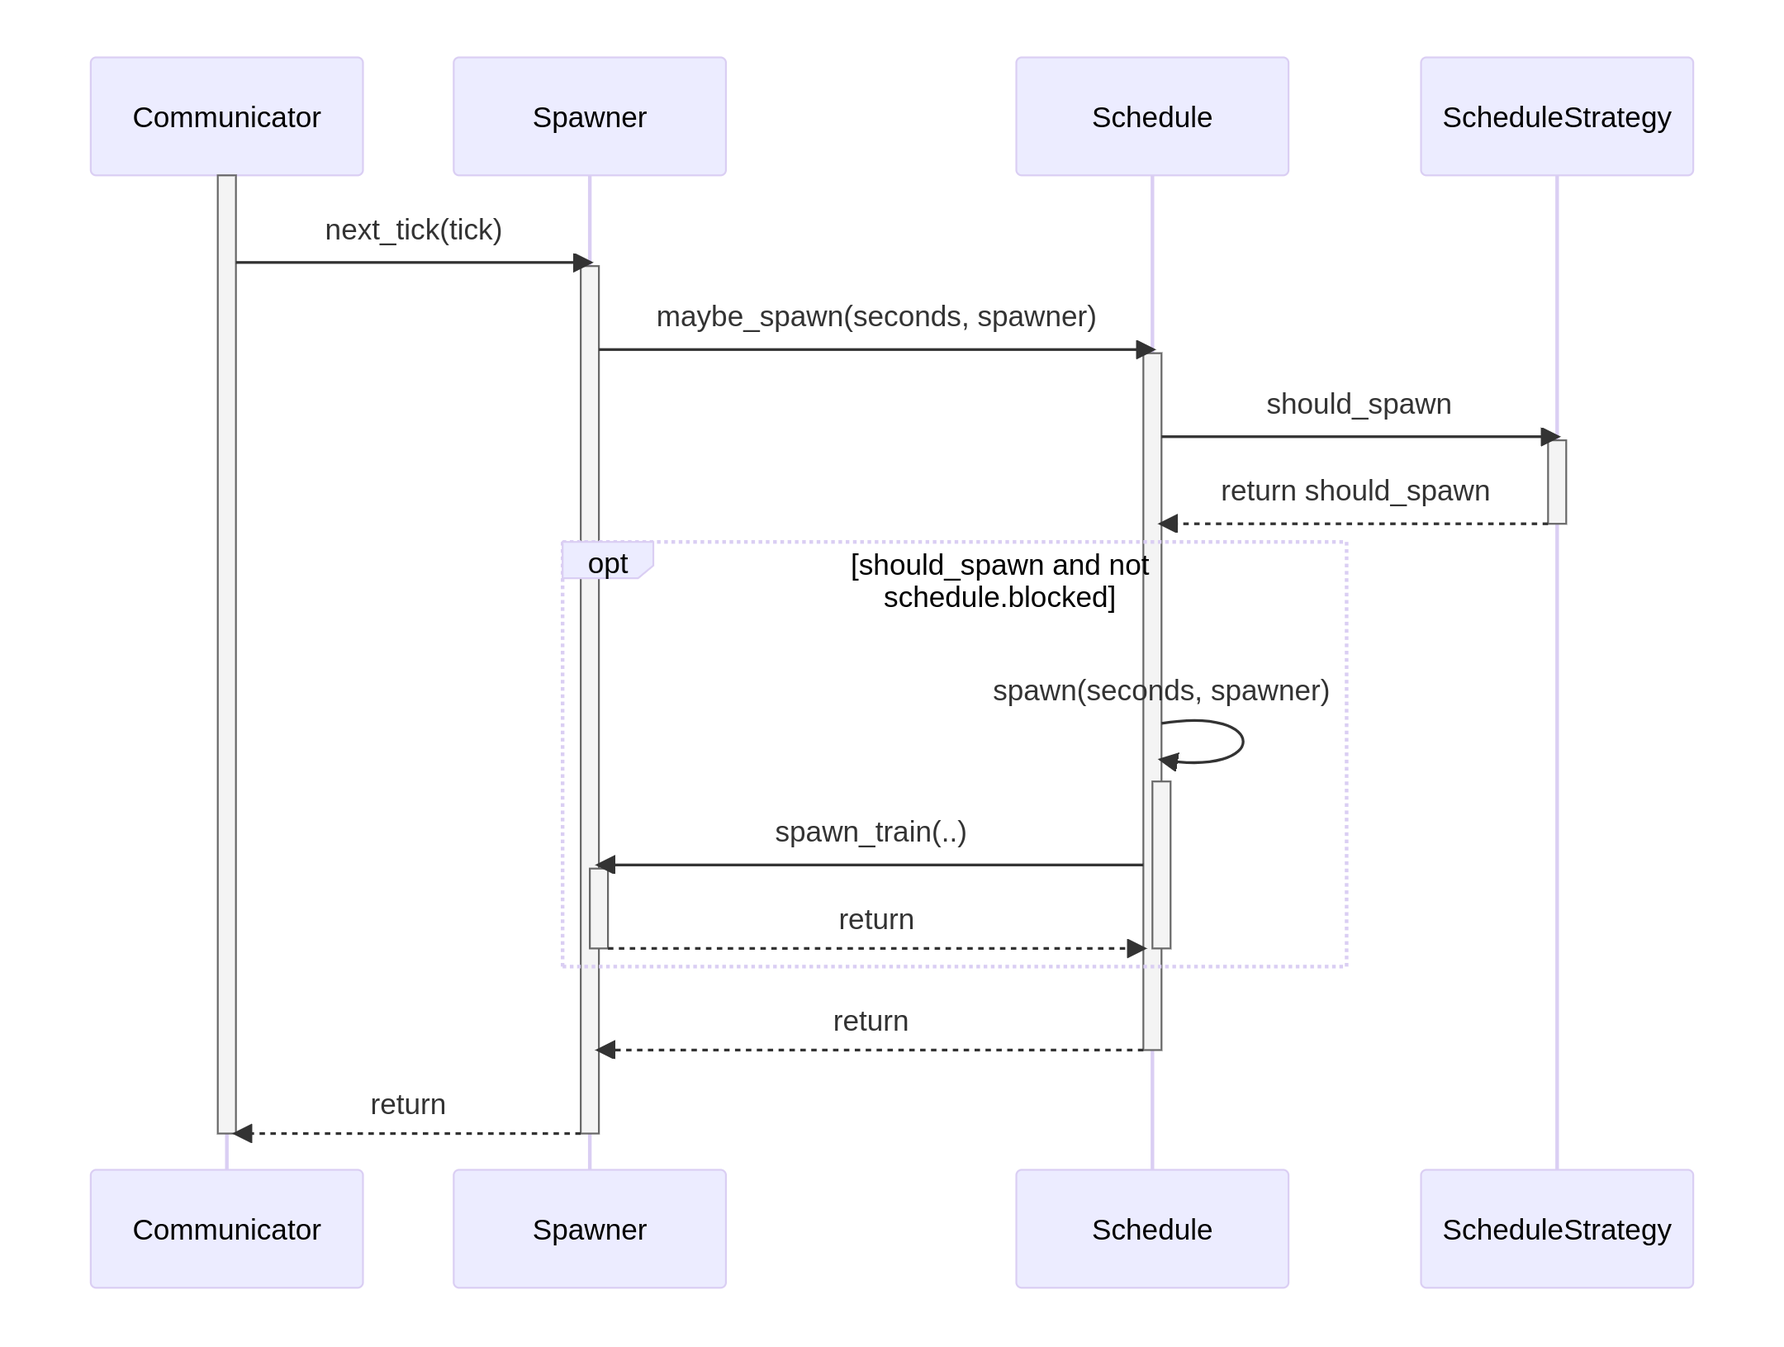
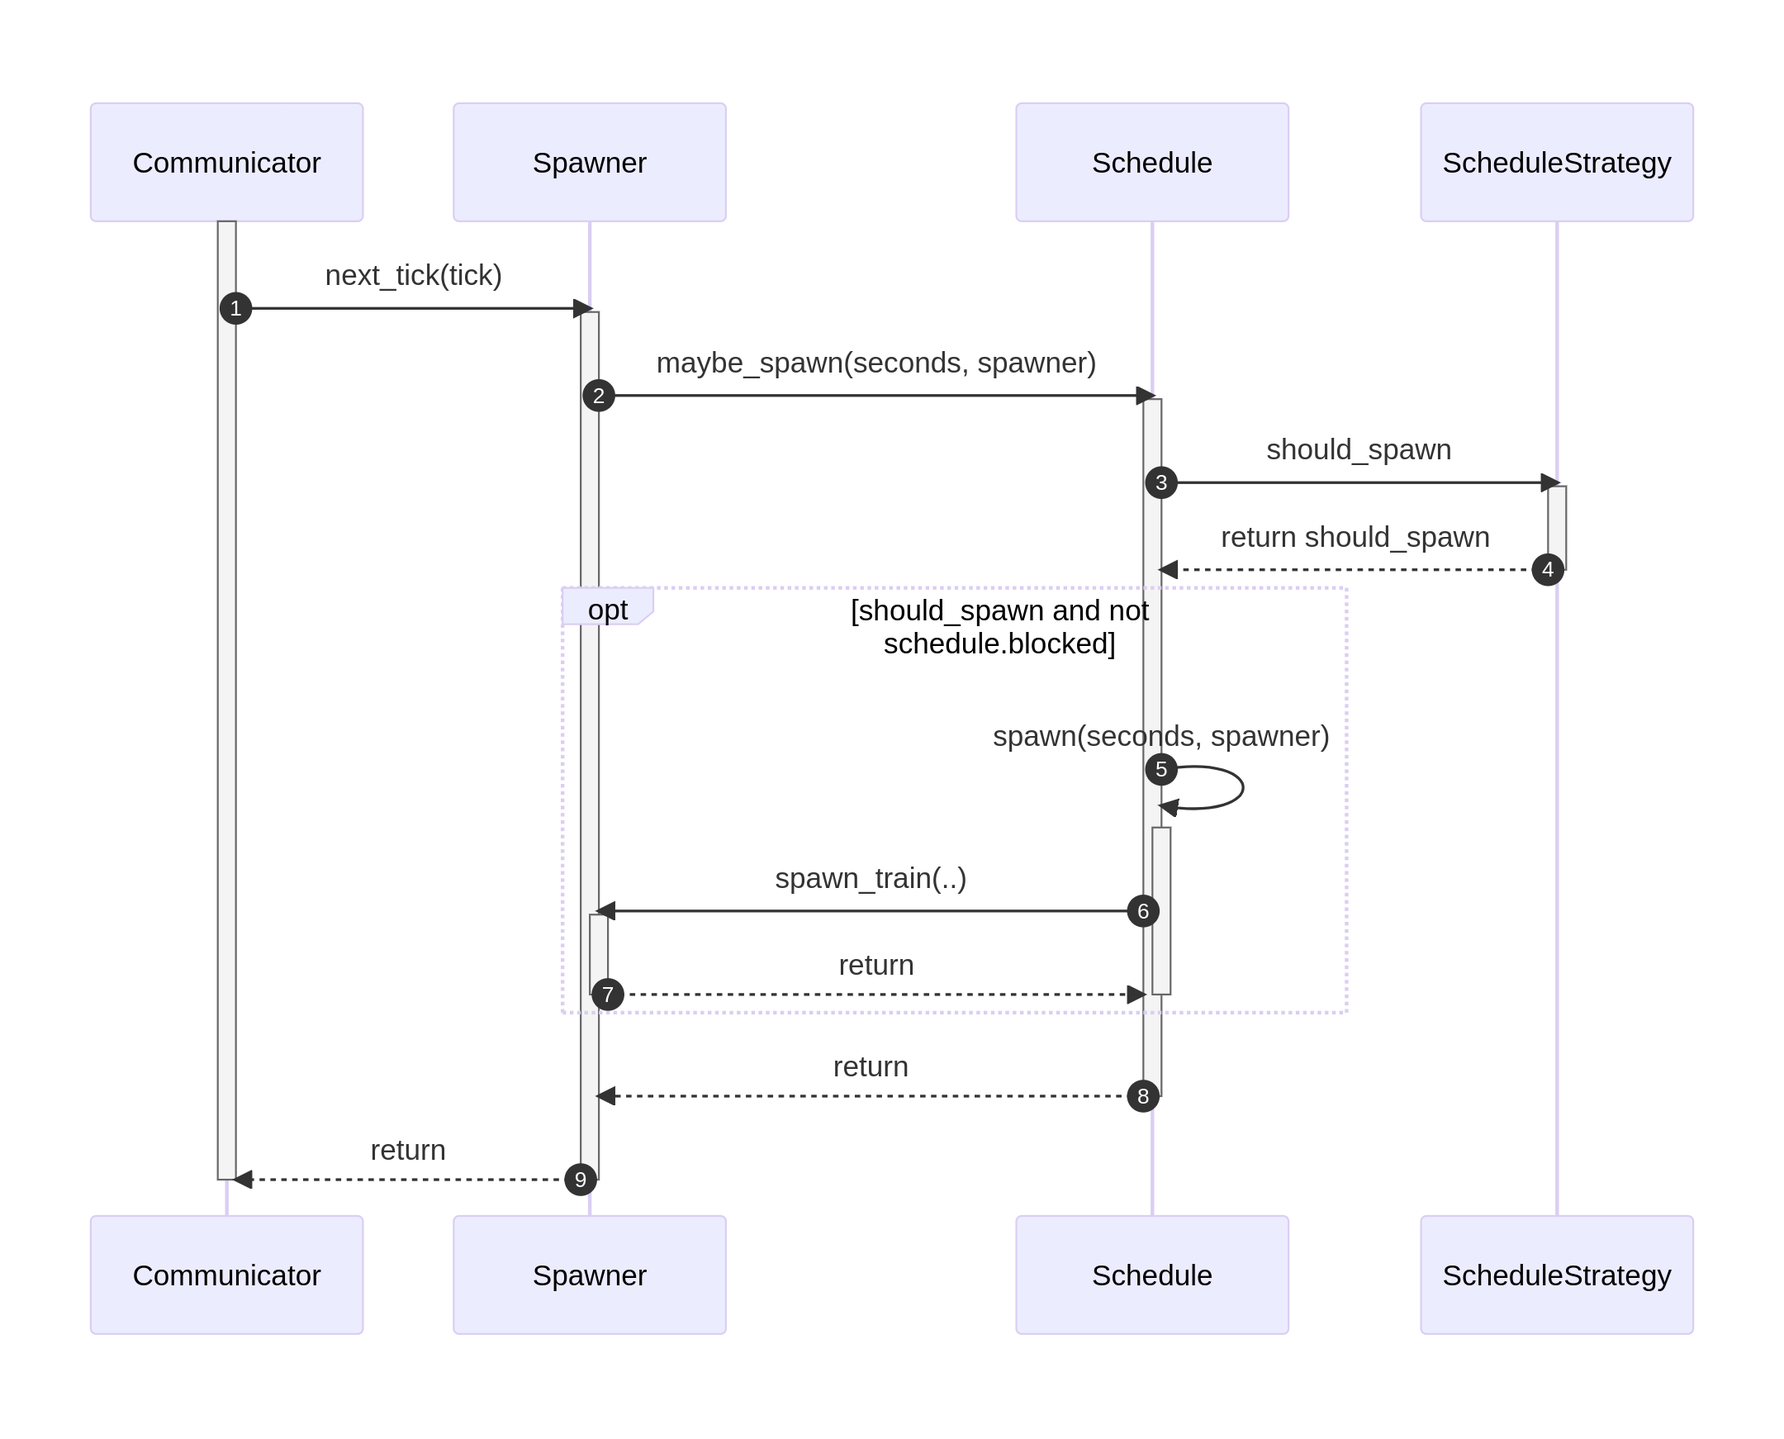
spawner

diff --git a/content/3_hauptteil/3_2_architektur/3_2_2_spawner.tex b/content/3_hauptteil/3_2_architektur/3_2_2_spawner.tex
@@ -1,31 +1,29 @@
-\subsection{Der Spawner}
+\subsection{Der \emph{Spawner}}
 \todo{Noch in Arbeit}
 \todo{Deadline: 26.06.}
 
-\begin{figure}[!hb]
+Das zentrale Element der Zugerzeugung ist die Klasse \code{Spawner}. Die Architektur aller an der Zeugerzeugung beteiligten Klassen ist in Abbildung \ref{fig:spawner-class} dargestellt. Die Klasse \code{Spawner} erbt, wie die anderen zentralen Klassen des Systems, von der Klasse \code{Component} und erhält damit Zugriff auf den \code{EventBus}, welcher in einem folgenden Abschnitt beschrieben wird, und auf die Methode \code{next\_tick}. Diese Methode wird in jedem Zeitintervall der Simulation einmal aufgerufen und gibt der Komponente die Möglichkeit, auf die Simulation zu reagieren. Weiterhin realisiert die Klasse \code{Spawner} die \code{ISpawnerDisruptor}-Schnittstelle, welche eine Fehlerinjektion\cite{persitzky_fehlerinjektion_2023} ermöglicht. Der \code{Spawner} besitzt die Attribute \code{configuration}, welches im folgenden Abschnitt näher beleuchtet wird, und \code{schedules}, bei dem es sich um eine Liste Abfahrtsplänen (\code{Schedule}-Objekte) handelt.
+
+\begin{figure}[htb]
 	\centering
-	\includegraphics[width=0.75\linewidth]{images/diagrams/spawner-class.png}
-	\caption{Klassendiagramm Spawner}
+	\includegraphics[width=1.0\linewidth]{images/diagrams/spawner-class.png}
+	\caption{Klassendiagramm der Zugerzeugung}
 	\label{fig:spawner-class}
 \end{figure}
 
-\begin{figure}[!hb]
+Die Klasse \code{Schedule} ist abstrakt und bietet damit die Möglichkeit der Spezialisierung. Die einzige bisher implementierte Spezialisierung ist der \code{TrainSchedule}, welcher speziell für die Erzeugung von Zügen verantwortlich ist. Wir haben uns für eine abstrakte \code{Schedule}-Klasse entschieden, um die Möglichkeit zu haben, das System in Zukunft um Abfahrtspläne anderer Verkehrsteilnehmer zu erweitern. Denkbar wäre bspw. die Simulation von Fußgängern, die gleichzeitig als Passagiere für Personenzüge fungieren. Diese Funktionalität könnte in einer Klasse \code{PedestrianSchedule} implementiert werden, welche ebenfalls von \code{Schedule} erbt. Eine Instanz eines \code{TrainSchedule} Attribute, welche den Zugtyp (\code{train\_type}) und die Liste der anzufahrenden Haltestellen (\code{platform\_ids}) enthalten.\\
+\\
+Um eine zukünftige Erweiterbarkeit zu gewährleisten, wurde die Klasse \code{Schedule} so implementiert, dass der Algorithmus, welcher die Abfahrzeiten bestimmt, von der eigentlichen \code{Schedule}-Klasse unabhängig ist. Ein \code{Schedule}-Objekt hält eine Referenz auf ein \code{ScheduleStrategy}-Objekt, welches einen Algorithmus zur Bestimmung der Abfahrtszeiten implementiert. Diese Klasse stellt eine Start- und eine Endzeit (\code{start\_time} und \code{end\_time}) bereit, welche die Zeitspanne festlegen, in der die Abfahrtszeiten bestimmt werden. Mit der Methode \code{should\_spawn} kann für eine bestimmte Zeit abgefragt werden, ob ein Zug zu erzeugen ist. Von der abtrakten Klasse \code{ScheduleStrategy} erben die Klassen \code{RegularScheduleStrategy}, \code{RandomScheduleStrategy} und \code{DemandScheduleStrategy}, welche das Verhalten der drei zuvor beschriebenen Abfahrtspläne implementieren.\\
+\\
+Die Klasse \code{RegularScheduleStrategy} implementiert die regulären Abfahrtspläne und besitzt das Attribut \code{frequency}, welches die Häufigkeit der regelmäßig abfahrenden Züge angibt. Die \code{RandomScheduleStrategy}-Klasse ist für die randomisierten Abfahrtspläne zuständig und besitzt dafür die Attribute \code{trains\_per\_100\_seconds} und \code{seed}, welche die Wahrscheinlichkeit einer Abfahrt und einen Startwert für den Zufallszahlengenerator beinhalten. Letzteres Attribut dient der Reproduzierbarkeit von Simulationsergebnissen. Die \code{DemandScheduleStrategy}-Klasse implementiert die Abfahrtspläne, welche auf dem Kohlebedarf basieren. Die hält die Attribute \code{power\_station} für das betrachtete Kraftwerk, \code{start\_datetime} für das Startdatum der historischen Datenbasis und \code{scaling\_factor}, womit der Kohlebedarf skaliert werden kann, um bspw. eine unvollständige Auslastung eines Kraftwerks zu simulieren.
+
+Abbildung \ref{fig:spawner-seq} zeigt das Verhalten der Zugerzeugung innerhalb eines Zeitintervalls der Simulation. Ein \code{Communicator}-Objekt\footnote{beschrieben in der Arbeit von \citeauthor{kamp_architektur_2023}\cite{kamp_architektur_2023}} sendet \code{nect\_tick} an das \code{Spawner}-Objekt (1). Dieser sendet daraufhin \code{maybe\_spawn} an jedes Element in der Liste \code{schedules} und übergibt sich dabei selbst (2). Durch Aufruf von \code{should\_spawn} wird überprüft, ob ein Zug zu erzeugen ist (3). Ist dies der Fall, ruft das \code{Schedule}-Objekt auf sich selbst \code{spawn} auf (5), was dazu führt, dass \code{spawn\_train} an die übergebene \code{Spawner}-Instanz gesendet wird (6). Dort wird letztendlich die Schnittstelle zu SUMO angesprochen, um einen Zug in die Simulation zu setzen.
+
+\begin{figure}[htb]
 	\centering
-	\includegraphics[width=0.75\linewidth]{images/diagrams/spawner-seq.png}
-	\caption{Sequenzdiagramm Spawner}
+	\includegraphics[width=1.0\linewidth]{images/diagrams/spawner-seq.png}
+	\caption{Sequenzdiagramm der Zugerzeugung}
 	\label{fig:spawner-seq}
 \end{figure}
 
-Unser System simuliert die Interaktion von Zügen und diese Züge müssen zu bestimmten Zeiten instanziiert werden. Jedoch könne wir keine SUMO-Flows für das Spawning verwenden, weil diese nicht in der Lage sind, das von uns gewünschte Fahrstraßenverhalten abzubilden. Deshalb haben wir die Spawner-Komponente entwickelt, welche mit Hilfe einer Liste von Stationen, einen Zug in die Simulation setzt.
-
-Der *Spawner* erbt wie die meisten anderen Teile der Software von *Component*, um über `next\_tick` auf die nächste Iteration der Simulation reagieren zu können. Außerdem erhält der Spawner somit Zugriff auf den *EventBus*, welcher es ermöglicht, Events zu emittieren und auf emittierte Events zu reagieren.
-
-Der *Spawner* hält eine Liste von *Schedules*. Ein *Schedule* repräsentiert eine Menge von SUMO-Entitäten, den Weg, den diese in der Simulation zurücklegen sowie die Zeitpunkte, zu denen die Entitäten instanziiert werden. Weiterhin kann ein *Schedule* vom *FaultInjector* geblockt werden, um die Erzeugung von Entitäten für einen bestimmtes Zeitintervall zu unterbinden.
-
-Für einen *Schedule* können Spezialisierungen angelegt werden, um auf die Besonderheiten verschiedener Arten von Entitäten Rücksicht zu nehmen. So müssen z.B. bei der Erzeugung von Fußgängern zum Teil andere Faktoren berücksichtigt werden, als bei der Erzeugung von Zügen. Daher haben wir uns entschieden, die Spezialisierung *TrainSpawner*, zur Erzeugung der Züge zu verwenden. Ein *PedestrianSpawner* war geplant, konnte jedoch im Rahmen des Projektes nicht mehr umgesetzt werden. Der *TrainSchedule* enthält zusätzlich Informationen über den Zugtyp (z.B. Personenzug oder Güterzug), die Route, die der Zug abfährt und dessen Haltepunkte. Diese Route ist als Liste von IDs hinterlegt, welche die anzufahrenden Bahnsteige referenzieren.
-
-Im Rahmen unseres Projektes untersuchten wir drei verschiedene Möglichkeiten, die Erzeugungszeitpunkte für Entitäten festzulegen. Dies waren eine regelmäßige, eine zufällige und eine bedarfsorientierte Erzeugung. Ein naiver Ansatz, um diese Möglichkeiten in der Architektur widerzuspiegeln, ist es, Vererbung zu verwenden. Dieser Ansatz ist allerdings nicht skalierbar, da $n$ Möglichkeiten der Festlegung der Zeitpunkte und $m$ Arten von Entitäten zu $m\cdot n$ verschiedenen Spezialisierungen führen würden. Das würde zu einem quadratischen Anwachsen von Spezialisierungsklassen führen, wenn weitere Optionen hinzugefügt werden würden.
-
-Stattdessen haben wir uns dazu entschieden, das Strategie-Entwurfsmuster zu verwenden. Wie bereits erwähnt, existieren Spezialisierungen für jede Art von SUMO-Entität. Die Erzeugungszeitpunkte werden über Strategieklassen realisiert, welche eine Spezialisierung von *ScheduleStrategy* sind. Jeder *Schedule* hat nun eine Referenz auf eine *ScheduleStrategy*. Wird *next\_tick* auf dem *Spawner* aufgerufen, so iteriert er über seine Liste von *Schedules* und veranlasst jeden davon, einen Zug zu erzeugen, falls entsprechende Bedingungen erfüllt sind. Dazu wird das Besucher-Entwurfsmuster verwendet, bei welchen der *Spawner* mit jedem *Schedule* über einen Double-Dispatch interagiert, indem der *Spawner* sich selbst übergibt. Dies wird durch Aufrufen von *maybe\_spawn* initiiert. Die Zuständigkeit für die Einscheidung, ob im aktuellen *tick* ein Zug erzeugt werden soll, liegt bei der *ScheduleStrategy*. Die entsprechende konkrete *ScheduleStrategy* prüft die vorliegenden Bedingungen und gibt im Anschluss ihre Entscheidung als *Boolean* zurück.
-
-Fällt diese Entscheidung positiv aus und ist der *Schedule* nicht blockiert, so ruft er die private *spawn*-Methode seiner Superklasse auf, auf deren Funktionalität unter **Implementierung** im Detail eingegangen wird. Letztendlich kehrt die Ausführung zum *Spawner* zurück, welcher die Erzeugung des Zuges verannlasst.
+Bei diesem Mechanismus finden zwei Entwurfsmuster Anwendung. Der \code{Spawner} fungiert and \emph{Visitor} und besucht jedes Element in der Liste von \code{Schedule}-Objekten. Über einen \emph{Double-Dispatch} mit den Methoden \code{maybe\_spawn} und \code{spawn\_train} wird dabei erreicht, dass die Verantwortlichkeit der Implementierung zur Erzeugung von Zügen (und zukünftig evtl. weiterer Verkehrsteilnehmer) bei der Klasse \code{Spawner} liegt. Die Entscheidung hingegen wird von den \code{Schedule}-Objekten getroffen. Dadurch lassen sich in Zukunft relativ einfach weitere Arten von \code{Schedule}-Klassen hinzufügen. Die Klasse \code{Spawner} muss dazu nur um jeweils eine weitere Methode erweitert werden. Bei der Methode \code{maybe\_spawn} handelt es sich weiterhin um eine im abstrakten \code{Schedule} implementierte \emph{Template Method}. Sie gibt den Ablauf der Entscheidung über die Zugerzeugug vor. Die konkreten Implementierungen für \code{spawn} und \code{should\_spawn} liegen jedoch in den konkreten Subklassen von \code{Schedule}  bzw. \code{ScheduleStrategy}. Auch hier ist der Vorteil, dass sich neue Algorithmen zur Bestimmung der Abfahrtszeiten relativ einfach hinzufügen lassen, ohne dass die Klasse \code{Spawner} angepasst werden muss.

diff --git a/content/3_hauptteil/3_2_architektur/3_2_3_spawner_config.tex b/content/3_hauptteil/3_2_architektur/3_2_3_spawner_config.tex
@@ -1,24 +1,30 @@
 \subsection{Die Konfiguration des Spawners}
-\todo{Noch in Arbeit}
-\todo{Deadline: 26.06.}
 
-\begin{figure}[!hb]
+Die Konfiguration des Spawners legt fest, wann und wo in der Simulation Züge erzeugt werden. Eine der Anforderungen an das System ist, dass der Benutzer in der Lage sein muss, diese Konfiguration durchzuführen. Weiterhin ist es wünschenswert, dass die Konfigurationen gespeichert werden können, um die zugehörigen Simulationen erneut oder in abgeänderter Form durchführen zu können. Zu Beginn des Projektes erbten die Klassen \code{Spawner}, \code{Schedule} und \code{ScheduleStrategy} von \code{BaseModel}. Somit ließen sich Instanzen dieser Klassen und ihrer Subklassen direkt in die Datenbank schreiben. Dieser Ansatz wurde jedoch verworfen, da das verwendete ORM \emph{peewee} nicht in der Lage ist, objektorientierte Vererbungshierachien ausreichend gut abzubilden. \emph{peewee} ordnet jeder Klasse eine Tabelle in der Datenbank zu. Es spielt dabei keine Rolle, ob es sich um eine abstrakte oder eine konkrete Klasse handelt. Ein \code{Schedule}-Objekt kann bspw. ein \code{RegularScheduleStrategy}-Objekt enthalten. Die Klasse \code{Schedule} ''kennt'' jedoch nur die abstrakte Klasse \code{ScheduleStrategy}. Die Abbildung durch \emph{peewee} erzeugt daher für die Tabelle \code{Schedule} lediglich einen Fremdschlüssel, der auf die ''abstrakte'' Tabelle \code{ScheduleStrategy} verweist. Referenzen auf abstrakte Klassen lassen sich also mit \emph{peewee} nicht abbilden.\\
+\\
+Wir haben uns stattdessen für die in Abbildung \ref{fig:spawner-config-class} dargestellte Architektur entschieden. Dem \code{Spawner} wird nun ein Konfigurationsobjekt (\code{SpawnerConfiguration}) zugewiesen. Über eine $m$:$n$-Beziehung, die durch die Klasse \code{SpawnerConfiguratioXSchedule} bereitgestellt wird, können einem \code{SpawnerConfiguration}-Objekt mehrere \code{ScheduleConfiguration}-Objekte zugewiesen werden, welches alle Informationen für ein \code{Schedule}-Objekt und ein dazugehöriges konkretes \code{ScheduleStrategy}-Objekt beinhaltet. Die Liste der anzufahrenden Haltestellen wird über die Klasse \code{ScheduleConfigurationXSimulationPlatform} referenziert. Über das Attribut \code{index} kann die Reihenfolge der Haltestellen abgebildet werden. Bei diesem Vorgehen ist zu beachten, dass die $m$:$n$-Beziehungen aus der Datenbank nicht vor dem Programmierer versteckt wurden. Stattdessen wurden sie 1:1 in das objektorientierte Paradigma übernommen. Weiterhin gibt es keine Subklassen von \code{Scheduke} und \code{ScheduleStrategy} mehr. Sämtliche Attribute der Subklassen finden sich in \code{ScheduleConfiguration} wieder. Entsprechend wird stets nur eine Teilmenge dieser Attribute verwendet. Um die Subklassen dennoch abzubilden, existieren die Felder \code{schedule\_type} und \code{strategy\_type}. Das hier beschriebene Problem wurde bei der Auswahl des ORM nicht vorhergesehen. Um allerdings nicht eion neues ORM in das System integrieren zu müssen, haben wir uns für diese Lösung entschieden. Sie bot einen Zeitvorteil und funktionierte ausreichend gut.
+
+\begin{figure}[htb]
 	\centering
-	\includegraphics[width=0.75\linewidth]{images/diagrams/spawner-config-class.png}
-	\caption{Klassendiagramm Spawnerkonfiguration}
+	\includegraphics[width=1.0\linewidth]{images/diagrams/spawner-config-class.png}
+	\caption{Klassendiagramm der \emph{Spawner}-Konfiguration}
 	\label{fig:spawner-config-class}
 \end{figure}
 
-Der *Spawner* und insbesondere dessen *Schedules* und *ScheduleStrategies* müssen konfiguriert werden. Zum Zweck der Nachvollziehbarkeit und der Reproduzierbarkeit, müssen diese Konfigurationen persistent gespeichert werden. Dazu werden sie als Objekte in der Datenbank abgelegt.
+Alle zur Konfiguration gehörenden Klassen werden in JSON-serialisierter Form vom Benutzer über die REST-API übertragen\cite{kamp_architektur_2023}. Sie werden daraufhin deserialisiert und in der Datenbank abgelegt. Aus diesen Kofigurationsobjekten können dann ein \code{Spawner}, \code{Schedule}-Objekte und \code{ScheduleStrategy}-Objekte erzeugt werden. Dafür wurde das Entwurfsmuster der \emph{FactoryMethod} verwendet. Abbildung \ref{fig:spawner-factory-class} zeigt, dass die Klassen \code{Schedule} und \code{ScheduleStrategy} bzw. ihre Subklassen ihre eigenen \emph{Factories} sind. Sie besitzen zu diesem Zweck jeweils eine \emph{Klassen}-Methode \code{from\_schedule\_configuration}, welche als \emph{Factory Method} fungiert.
 
-Die initiale Idee zur Umsetzung dessen, war die konkreten *Schedules* und *ScheduleStrategies* als Spezialisierung von *BaseModel* anzulegen und somit eine Persistenz dieser Objekte in der Datenbank zu ermöglichen. Die hätte für den *Schedule* eine Vererbungshiearchie der Form *BaseModel* <- *Schedule* <- *Konkreter Schedule* zur Folge gehabt (analog für die *ScheduleStrategies*). Das von uns verwendete ORM setzt abstrakte Klassen in Form konkret existierender Datenbankrelationen um. Diese Relationen wären entsprechend stets leer. Da jedoch zur Laufzeit Variablen abstrakten Typs auf eben diese Relationen abgebildet werden, war diese Entwurfsidee keine Option für uns.
+\begin{figure}[htb]
+	\centering
+	\includegraphics[width=1.0\linewidth]{images/diagrams/spawner-factory-class.png}
+	\caption{Klassendiagramm der \emph{Spawner}-Konstruktion}
+	\label{fig:spawner-factory-class}
+\end{figure}
 
-Stattdessen haben wir uns dazu entschieden, die Konfiguration von der Logik zu trennen und für die Konfiguration auf Vererbung zu verzichten. Dies löst das Problem der abstrakten Klassen mit dem ORM und ermöglicht weiterhin die Verwendung von Spezialisierung für die Funktionalität.
+Abbildung \ref{fig:spawner-factory-seq} zeigt, wie aus einer Konfiguration, entsprechende Objekte erzeugt werden. Das \code{Spawner}-Objekt ruft für jedes referenzierte \code{ScheduleConfiguration}-Objekt die \emph{Factory Method} der Klasse \code{Schedule} auf (1). Diese instanziiert daraufhin ein dem Wert des Attributes \code{ScheduleType} entsprechendes \code{Schedule}-Objekt und ein \code{ScheduleStrategy}-Objekt durch Aufruf der \emph{Factory Method} der Klasse \code{ScheduleStrategy} und erneute Übergabe des Konfigurationsobjektes (2). Beide \emph{Factory Methods} lesen die benötigten Werte für die Attribute der zu erzeugenden Objekte aus dem Konfigurationsobjekt und geben dann das fertige Objekt zurück. Jedes \code{Schedule}-Objekt kann dass das erzeugte \code{ScheduleStrategy}-Objekt im Attribut \code{strategy} speichern. Das \code{Spawner}-Objekt kann die erzeugten \code{Schedule}-Objekte in der Liste \code{schedules} speichern.
 
-Die Konfiguration der *Schedules* und *ScheduleStrategies* ist nun in einer einigen Klasse, der *ScheduleConfiguration*, zusammengefasst. Dies erschien sinnvoll, da eine 1:1-Beziehung zwischen beiden Klassen besteht.
-
-Zwischen dem *Spawner* und dem *Schedule* besteht eine m:n-Beziehung, da ein Spawner mehrere Schedules besitzen kann. Ebenso kann ein Schedule in mehreren *Spawners* Verwendung finden. Die Beziehung zwischen der *ScheduleConfiguration* und der *SpawnerConfiguration* wird daher über die Hilfsklasse *SpawnerConfigurationXSchedule* realisiert. Diese Klasse ist leer und lediglich eine technische Notwendigkeit zur Spezifikation der m:n-Beziehung für den ORM.
-
-Ein Schedule benötigt eine Liste von Stationen, welche der Zug nacheinander ansteuern soll. Er wird an der ersten dieser Stationen erzeugt und wird an der letzten Station aus der Simulation entfernt. Diese Stationen existieren nur im Laufzeitkontext, sind also nicht in der Datenbank abgelegt. Die Klasse *ScheduleConfigurationXSimulationPlatform* repräsentiert die m:n-Beziehung zwischen einer Station und einen *Schedule*. Da m:n-Beziehungen in relationalen Datenbankmodellen ungeordnet sind, wird jedem Element dieser Beziehung ein Index zugeordnet, um eine Totalordnung über alle Elemente aufzubauen. Diese legt die Reihenfolge der Stationen fest.
-
-Die Konstruktion der *Schedules* und *ScheduleStrategies* erfolgt durch die Factory-Methoden *strategy\_from\_schedule\_configuration* im abstrakten *Schedule* und *from\_schedule\_configuration* in den entsprechenden konkreten Strategieklassen.
+\begin{figure}[htb]
+	\centering
+	\includegraphics[width=1.0\linewidth]{images/diagrams/spawner-factory-seq.png}
+	\caption{Sequenzdiagramm der \emph{Spawner}-Konstruktion}
+	\label{fig:spawner-factory-seq}
+\end{figure}
